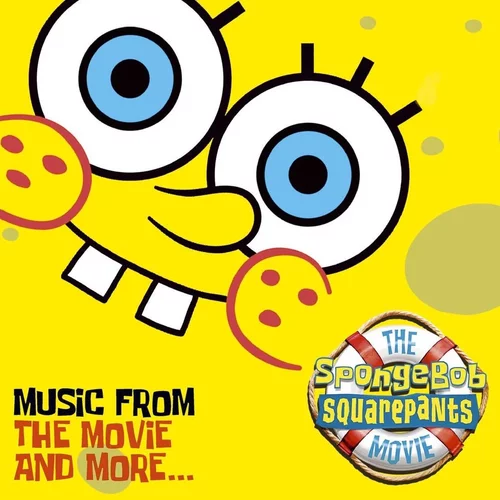
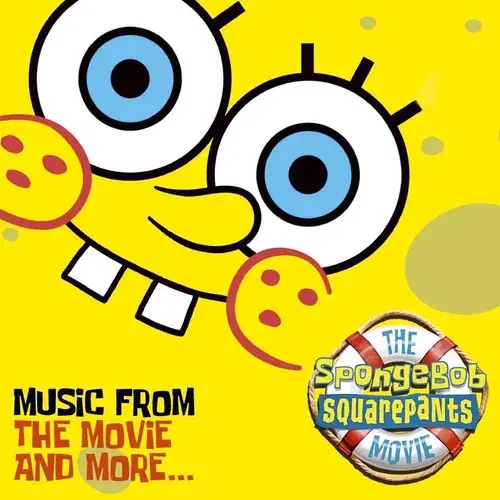
Compress images

diff --git a/love_en.html b/love_en.html
@@ -38,7 +38,7 @@ permalink: /love_en
                     </div>
                 </div>
                 <div class="window-body">
-                    <img src="/img/shrine/john.jpg" width="100%"
+                    <img src="/img/shrine/john.webp" width="100%"
                     style="border: 1px black solid;" />
                     <p><b>Really pretty Docuseries about the most mundane topics of day to day life.</b></p>
                 </div>
@@ -70,7 +70,7 @@ permalink: /love_en
                     </div>
                 </div>
                 <div class="window-body">
-                    <img src="/img/shrine/rehearsal.jpg" width="100%"
+                    <img src="/img/shrine/rehearsal.webp" width="100%"
                     style="border: 1px black solid;" />
                     <p><b>I love everything Nathan Fielder does.</b></p>
                 </div>
@@ -86,7 +86,7 @@ permalink: /love_en
                     </div>
                 </div>
                 <div class="window-body">
-                    <img src="/img/shrine/fleabag.jpg" width="100%"
+                    <img src="/img/shrine/fleabag.webp" width="100%"
                     style="border: 1px black solid;" />
                 </div>
             </div>
@@ -101,7 +101,7 @@ permalink: /love_en
                     </div>
                 </div>
                 <div class="window-body">
-                    <img src="/img/shrine/ted.jpg" width="100%"
+                    <img src="/img/shrine/ted.webp" width="100%"
                     style="border: 1px black solid;" />
                     <p><b>he's just a silly little guy.</b></p>
                 </div>
@@ -117,7 +117,7 @@ permalink: /love_en
                     </div>
                 </div>
                 <div class="window-body">
-                    <img src="/img/shrine/vandal.jpg" width="100%"
+                    <img src="/img/shrine/vandal.webp" width="100%"
                     style="border: 1px black solid;" />
                     <p><b>Underrated mockumentary.</b></p>
                 </div>
@@ -137,7 +137,7 @@ permalink: /love_en
                     </div>
                 </div>
                 <div class="window-body">
-                    <img src="/img/shrine/urban.jpg" width="100%"
+                    <img src="/img/shrine/urban.webp" width="100%"
                     style="border: 1px black solid;" />
                     <p><b>Beautiful documentary about urban spaces in NYC.</b></p>
                 </div>
@@ -199,7 +199,7 @@ permalink: /love_en
                     </div>
                 </div>
                 <div class="window-body">
-                    <img src="/img/shrine/thing.png" width="100%"
+                    <img src="/img/shrine/thing.webp" width="100%"
                     style="border: 1px black solid;" />
                 </div>
             </div>
@@ -230,7 +230,7 @@ permalink: /love_en
                     </div>
                 </div>
                 <div class="window-body">
-                    <img src="/img/shrine/eeaao.jpg" width="100%"
+                    <img src="/img/shrine/eeaao.webp" width="100%"
                     style="border: 1px black solid;" />
                 </div>
             </div>
@@ -245,7 +245,7 @@ permalink: /love_en
                     </div>
                 </div>
                 <div class="window-body">
-                    <img src="/img/shrine/inside.jpg" width="100%"
+                    <img src="/img/shrine/inside.webp" width="100%"
                     style="border: 1px black solid;" />
                     <p><b>Bo. Burnham.</b></p>
                 </div>
@@ -266,7 +266,7 @@ permalink: /love_en
                     </div>
                 </div>
                 <div class="window-body">
-                    <img src="/img/shrine/obra.jpg" width="100%"
+                    <img src="/img/shrine/obra.webp" width="100%"
                     style="border: 1px black solid;" />
                 </div>
             </div>
@@ -326,7 +326,7 @@ permalink: /love_en
                     </div>
                 </div>
                 <div class="window-body">
-                    <img src="/img/shrine/hades.jpg" width="100%"
+                    <img src="/img/shrine/hades.webp" width="100%"
                     style="border: 1px black solid;" />
                 </div>
             </div>
@@ -356,7 +356,7 @@ permalink: /love_en
                     </div>
                 </div>
                 <div class="window-body">
-                    <img src="/img/shrine/before.jpg" width="100%"
+                    <img src="/img/shrine/before.webp" width="100%"
                     style="border: 1px black solid;" />
                 </div>
             </div>
@@ -386,7 +386,7 @@ permalink: /love_en
                     </div>
                 </div>
                 <div class="window-body">
-                    <img src="/img/shrine/berdlycore.jpeg" width="100%"
+                    <img src="/img/shrine/berdlycore.webp" width="100%"
                     style="border: 1px black solid;" />
                 </div>
             </div>

diff --git a/love.html b/love.html
@@ -38,7 +38,7 @@ permalink: /love
                     </div>
                 </div>
                 <div class="window-body">
-                    <img src="/img/shrine/john.jpg" width="100%"
+                    <img src="/img/shrine/john.webp" width="100%"
                     style="border: 1px black solid;" />
                     <p><b>Docuseries muito bonita sobre os assuntos mais mundanos da vida moderna.</b></p>
                 </div>
@@ -70,7 +70,7 @@ permalink: /love
                     </div>
                 </div>
                 <div class="window-body">
-                    <img src="/img/shrine/rehearsal.jpg" width="100%"
+                    <img src="/img/shrine/rehearsal.webp" width="100%"
                     style="border: 1px black solid;" />
                     <p><b>Amo tudo que o Nathan Fielder faz.</b></p>
                 </div>
@@ -86,7 +86,7 @@ permalink: /love
                     </div>
                 </div>
                 <div class="window-body">
-                    <img src="/img/shrine/fleabag.jpg" width="100%"
+                    <img src="/img/shrine/fleabag.webp" width="100%"
                     style="border: 1px black solid;" />
                 </div>
             </div>
@@ -101,7 +101,7 @@ permalink: /love
                     </div>
                 </div>
                 <div class="window-body">
-                    <img src="/img/shrine/ted.jpg" width="100%"
+                    <img src="/img/shrine/ted.webp" width="100%"
                     style="border: 1px black solid;" />
                     <p><b>he's just a silly little guy.</b></p>
                 </div>
@@ -117,7 +117,7 @@ permalink: /love
                     </div>
                 </div>
                 <div class="window-body">
-                    <img src="/img/shrine/vandal.jpg" width="100%"
+                    <img src="/img/shrine/vandal.webp" width="100%"
                     style="border: 1px black solid;" />
                     <p><b>Underrated mockumentary.</b></p>
                 </div>
@@ -137,7 +137,7 @@ permalink: /love
                     </div>
                 </div>
                 <div class="window-body">
-                    <img src="/img/shrine/urban.jpg" width="100%"
+                    <img src="/img/shrine/urban.webp" width="100%"
                     style="border: 1px black solid;" />
                     <p><b>Documentário lindo sobre espaços urbanos em Nova York.</b></p>
                 </div>
@@ -199,7 +199,7 @@ permalink: /love
                     </div>
                 </div>
                 <div class="window-body">
-                    <img src="/img/shrine/thing.png" width="100%"
+                    <img src="/img/shrine/thing.webp" width="100%"
                     style="border: 1px black solid;" />
                 </div>
             </div>
@@ -230,7 +230,7 @@ permalink: /love
                     </div>
                 </div>
                 <div class="window-body">
-                    <img src="/img/shrine/eeaao.jpg" width="100%"
+                    <img src="/img/shrine/eeaao.webp" width="100%"
                     style="border: 1px black solid;" />
                 </div>
             </div>
@@ -245,7 +245,7 @@ permalink: /love
                     </div>
                 </div>
                 <div class="window-body">
-                    <img src="/img/shrine/inside.jpg" width="100%"
+                    <img src="/img/shrine/inside.webp" width="100%"
                     style="border: 1px black solid;" />
                     <p><b>Bo. Burnham.</b></p>
                 </div>
@@ -266,7 +266,7 @@ permalink: /love
                     </div>
                 </div>
                 <div class="window-body">
-                    <img src="/img/shrine/obra.jpg" width="100%"
+                    <img src="/img/shrine/obra.webp" width="100%"
                     style="border: 1px black solid;" />
                 </div>
             </div>
@@ -326,7 +326,7 @@ permalink: /love
                     </div>
                 </div>
                 <div class="window-body">
-                    <img src="/img/shrine/hades.jpg" width="100%"
+                    <img src="/img/shrine/hades.webp" width="100%"
                     style="border: 1px black solid;" />
                 </div>
             </div>
@@ -356,7 +356,7 @@ permalink: /love
                     </div>
                 </div>
                 <div class="window-body">
-                    <img src="/img/shrine/before.jpg" width="100%"
+                    <img src="/img/shrine/before.webp" width="100%"
                     style="border: 1px black solid;" />
                 </div>
             </div>
@@ -386,7 +386,7 @@ permalink: /love
                     </div>
                 </div>
                 <div class="window-body">
-                    <img src="/img/shrine/berdlycore.jpeg" width="100%"
+                    <img src="/img/shrine/berdlycore.webp" width="100%"
                     style="border: 1px black solid;" />
                 </div>
             </div>

diff --git a/index_en.html b/index_en.html
@@ -44,7 +44,7 @@ permalink: /index_en
             </div>
         </div>
         <div class="window-body">
-            <img src="img\shrine\urban.jpg" width="100%"
+            <img src="img\shrine\urban.webp" width="100%"
             style="border: 1px black solid;" />
             <p>Check out a few <a href="/love_en"><b>things that i love</b></a>!</p>
         </div>

diff --git a/index.html b/index.html
@@ -44,7 +44,7 @@ permalink: /
             </div>
         </div>
         <div class="window-body">
-            <img src="img\shrine\urban.jpg" width="100%"
+            <img src="img\shrine\urban.webp" width="100%"
             style="border: 1px black solid;" />
             <p>Veja algumas <a href="/love"><b>coisas que eu amo</b></a>!</p>
         </div>
